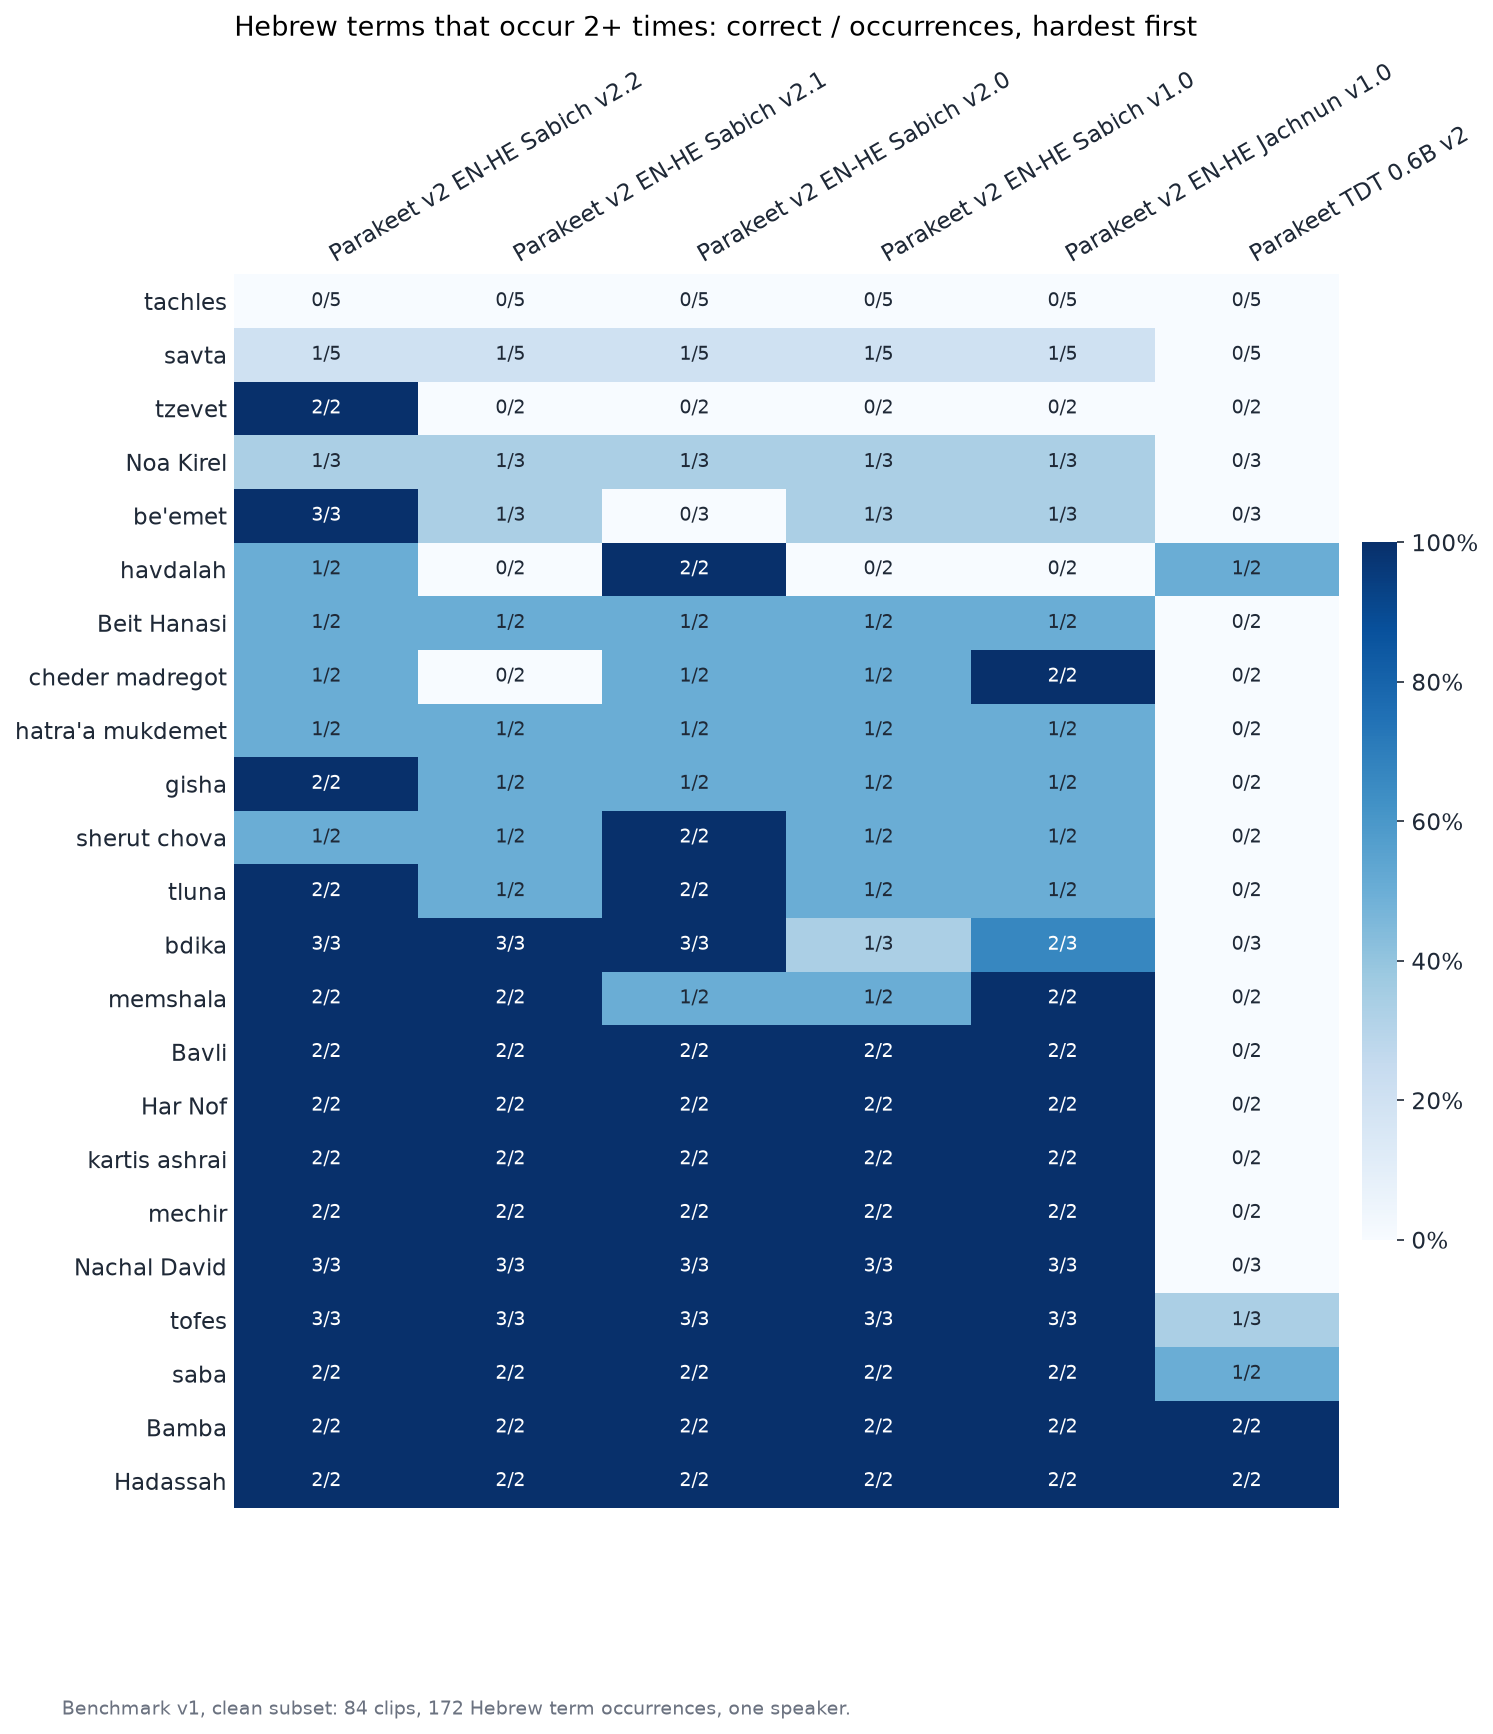
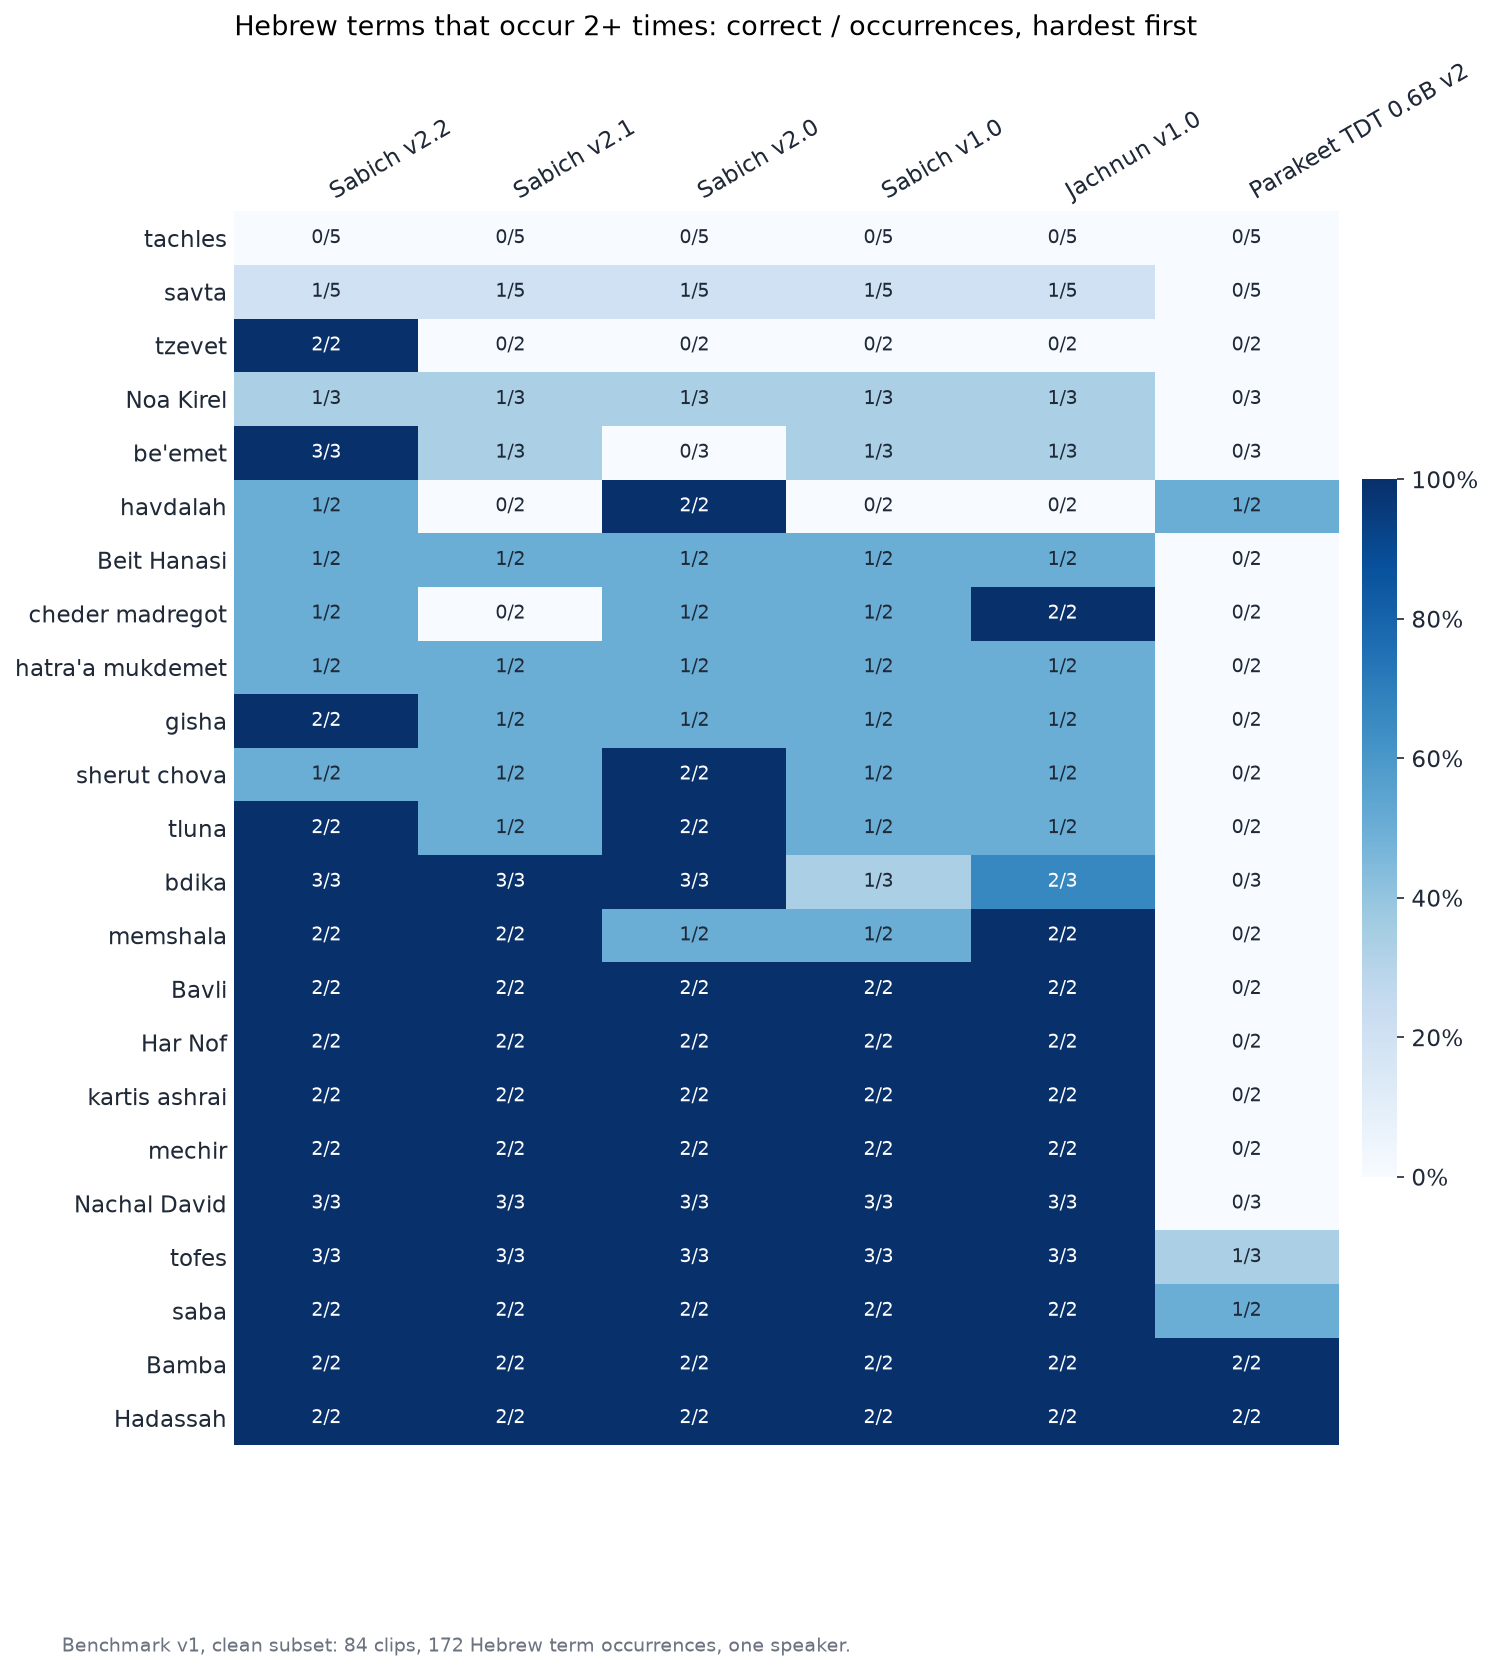
Short model names; leaderboard split into Code-switching fine-tunes and Stock ASR models (Space and README)

diff --git a/space/app.py b/space/app.py
@@ -58,9 +58,11 @@ def link(m):
     return f"[{m['name']}]({m['url']})" if m.get("url") else m["name"]
 
 
-def table(V, subset):
+def table(V, subset, ft=None):
     rows = []
     for r in V["results"]:
+        if ft is not None and bool(r["model"].get("fine_tuned_for_code_switching")) != ft:
+            continue
         m, s = r["model"], r["metrics"]["subsets"]
         c = s[subset]
         rows.append({
@@ -83,6 +85,15 @@ def table(V, subset):
         df = df.sort_values(["Term recall %", "WER %"], ascending=[False, True]).reset_index(drop=True)
         df.insert(0, "#", range(1, len(df) + 1))
     return df
+
+
+def sections(V, subset):
+    """Two leaderboard sections, split on model.fine_tuned_for_code_switching."""
+    for ft, title in [(True, "Code-switching fine-tunes"), (False, "Stock ASR models")]:
+        df = table(V, subset, ft)
+        if len(df):
+            gr.Markdown(f"### {title}")
+            gr.Dataframe(df, datatype="markdown", wrap=True, interactive=False)
 
 
 # Charts. Colour carries one job per chart: model type (fine-tune vs stock), or metric
@@ -316,7 +327,7 @@ def version_tabs(V):
         return
     subsets = res[0]["metrics"]["subsets"]
     with gr.Tab(f"Leaderboard (clean, {n} clips)"):
-        gr.Dataframe(table(V, "clean"), datatype="markdown", wrap=True, interactive=False)
+        sections(V, "clean")
         gr.Markdown("Ranked by term recall, then WER. *Lenient* also accepts lexicon spelling variants (*tsaharon* for *tzaharon*), "
                     "which is fairer to models never taught the canonical spelling. *English control* is "
                     f"{subsets['english_control']['n']} clips of the same speaker with no Hebrew: a fine-tune that wrecks English shows up there."
@@ -324,7 +335,7 @@ def version_tabs(V):
     if "all_code_switch" in subsets:
         with gr.Tab(f"All code-switching ({subsets['all_code_switch']['n']} clips)"):
             gr.Markdown("Adds 37 clips excluded from the headline: 33 overlap Whisper-Hebrish's training data (26 identical recordings, 7 re-recordings of training sentences) and 4 are older desktop-mic recordings. Comparable with the numbers on the Parakeet fine-tune's model card, which used all 121. **Not a fair comparison for Whisper-Hebrish.**")
-            gr.Dataframe(table(V, "all_code_switch"), datatype="markdown", wrap=True, interactive=False)
+            sections(V, "all_code_switch")
     if has_domains(V):
         with gr.Tab(f"By domain ({doms})"):
             gr.Markdown("Clean subset split by the Hebrew vocabulary domain each clip was sampled for (the [hebrish.app lexicon]"

diff --git a/scripts/results_table.py b/scripts/results_table.py
@@ -10,17 +10,22 @@ res = [json.loads(p.read_text()) for p in sorted((ROOT / "results").rglob("*.jso
 res = [r for r in res if r["benchmark"]["revision"] == rev]
 p = lambda x: f"{100 * x:.1f}"
 key = lambda r: (-r["metrics"]["subsets"]["clean"]["terms"]["all"]["recall"], r["metrics"]["subsets"]["clean"]["wer"])
-lines = ["| Model | Type | Term recall % | Unseen-term recall % | Lenient % | WER % | English control WER % |",
-         "|---|---|---|---|---|---|---|"]
-for r in sorted(res, key=key):
-    m, s = r["model"], r["metrics"]["subsets"]
-    c = s["clean"]
-    name = f"[{m['name']}]({m['url']})" if m.get("url") else m["name"]
-    if m.get("contamination"):
-        name += " ⚠"
-    lines.append(f"| {name} | {'CS fine-tune' if m.get('fine_tuned_for_code_switching') else 'Stock'} | "
-                 f"**{p(c['terms']['all']['recall'])}** | {p(c['terms']['unseen']['recall'])} | "
-                 f"{p(c['terms']['all']['recall_lenient'])} | {p(c['wer'])} | {p(s['english_control']['wer'])} |")
+head = ["| Model | Term recall % | Unseen-term recall % | Lenient % | WER % | English control WER % |",
+        "|---|---|---|---|---|---|"]
+lines = []
+for ft, title in [(True, "Code-switching fine-tunes"), (False, "Stock ASR models")]:
+    rs = [r for r in res if bool(r["model"].get("fine_tuned_for_code_switching")) == ft]
+    if not rs:
+        continue
+    lines += ([""] if lines else []) + [f"#### {title}", ""] + head
+    for r in sorted(rs, key=key):
+        m, s = r["model"], r["metrics"]["subsets"]
+        c = s["clean"]
+        name = f"[{m['name']}]({m['url']})" if m.get("url") else m["name"]
+        if m.get("contamination"):
+            name += " ⚠"
+        lines.append(f"| {name} | **{p(c['terms']['all']['recall'])}** | {p(c['terms']['unseen']['recall'])} | "
+                     f"{p(c['terms']['all']['recall_lenient'])} | {p(c['wer'])} | {p(s['english_control']['wer'])} |")
 readme = ROOT / "README.md"
 t = readme.read_text()
 t = re.sub(r"(<!-- results:start -->\n).*?(<!-- results:end -->)", lambda m: m.group(1) + "\n".join(lines) + "\n" + m.group(2),

diff --git a/README.md b/README.md
@@ -15,14 +15,21 @@ A replicable benchmark for speech recognition on **English speech with Hebrew wo
 ## Results (test set v2, clean subset: 129 clips, 221 Hebrew term occurrences)
 
 <!-- results:start -->
-| Model | Type | Term recall % | Unseen-term recall % | Lenient % | WER % | English control WER % |
-|---|---|---|---|---|---|---|
-| [Parakeet v2 EN-HE Sabich v2.2](https://huggingface.co/Hebrish/Sabich) | CS fine-tune | **70.1** | 62.0 | 71.0 | 4.9 | 2.1 |
-| [Parakeet v2 EN-HE Sabich v2.1](https://huggingface.co/Hebrish/Sabich) | CS fine-tune | **65.6** | 56.2 | 67.4 | 5.2 | 2.4 |
-| [Parakeet v2 EN-HE Sabich v2.0](https://huggingface.co/Hebrish/Sabich) | CS fine-tune | **65.2** | 54.0 | 66.5 | 5.6 | 2.1 |
-| [Parakeet v2 EN-HE Sabich v1.0](https://huggingface.co/Hebrish/Sabich) | CS fine-tune | **63.3** | 53.3 | 65.2 | 5.7 | 2.1 |
-| [Parakeet v2 EN-HE Jachnun v1.0](https://huggingface.co/danielrosehill/Parakeet-TDT-0.6B-v2-English-Hebrew-Codeswitching) | CS fine-tune | **61.1** | 51.8 | 62.9 | 5.9 | 2.4 |
-| [Parakeet TDT 0.6B v2](https://huggingface.co/nvidia/parakeet-tdt-0.6b-v2) | Stock | **19.9** | 16.1 | 23.5 | 13.7 | 2.7 |
+#### Code-switching fine-tunes
+
+| Model | Term recall % | Unseen-term recall % | Lenient % | WER % | English control WER % |
+|---|---|---|---|---|---|
+| [Sabich v2.2](https://huggingface.co/Hebrish/Sabich) | **70.1** | 62.0 | 71.0 | 4.9 | 2.1 |
+| [Sabich v2.1](https://huggingface.co/Hebrish/Sabich) | **65.6** | 56.2 | 67.4 | 5.2 | 2.4 |
+| [Sabich v2.0](https://huggingface.co/Hebrish/Sabich) | **65.2** | 54.0 | 66.5 | 5.6 | 2.1 |
+| [Sabich v1.0](https://huggingface.co/Hebrish/Sabich) | **63.3** | 53.3 | 65.2 | 5.7 | 2.1 |
+| [Jachnun v1.0](https://huggingface.co/danielrosehill/Parakeet-TDT-0.6B-v2-English-Hebrew-Codeswitching) | **61.1** | 51.8 | 62.9 | 5.9 | 2.4 |
+
+#### Stock ASR models
+
+| Model | Term recall % | Unseen-term recall % | Lenient % | WER % | English control WER % |
+|---|---|---|---|---|---|
+| [Parakeet TDT 0.6B v2](https://huggingface.co/nvidia/parakeet-tdt-0.6b-v2) | **19.9** | 16.1 | 23.5 | 13.7 | 2.7 |
 <!-- results:end -->
 
 ![Hebrew term recall by model, clean subset](docs/figures/term_recall.png)
